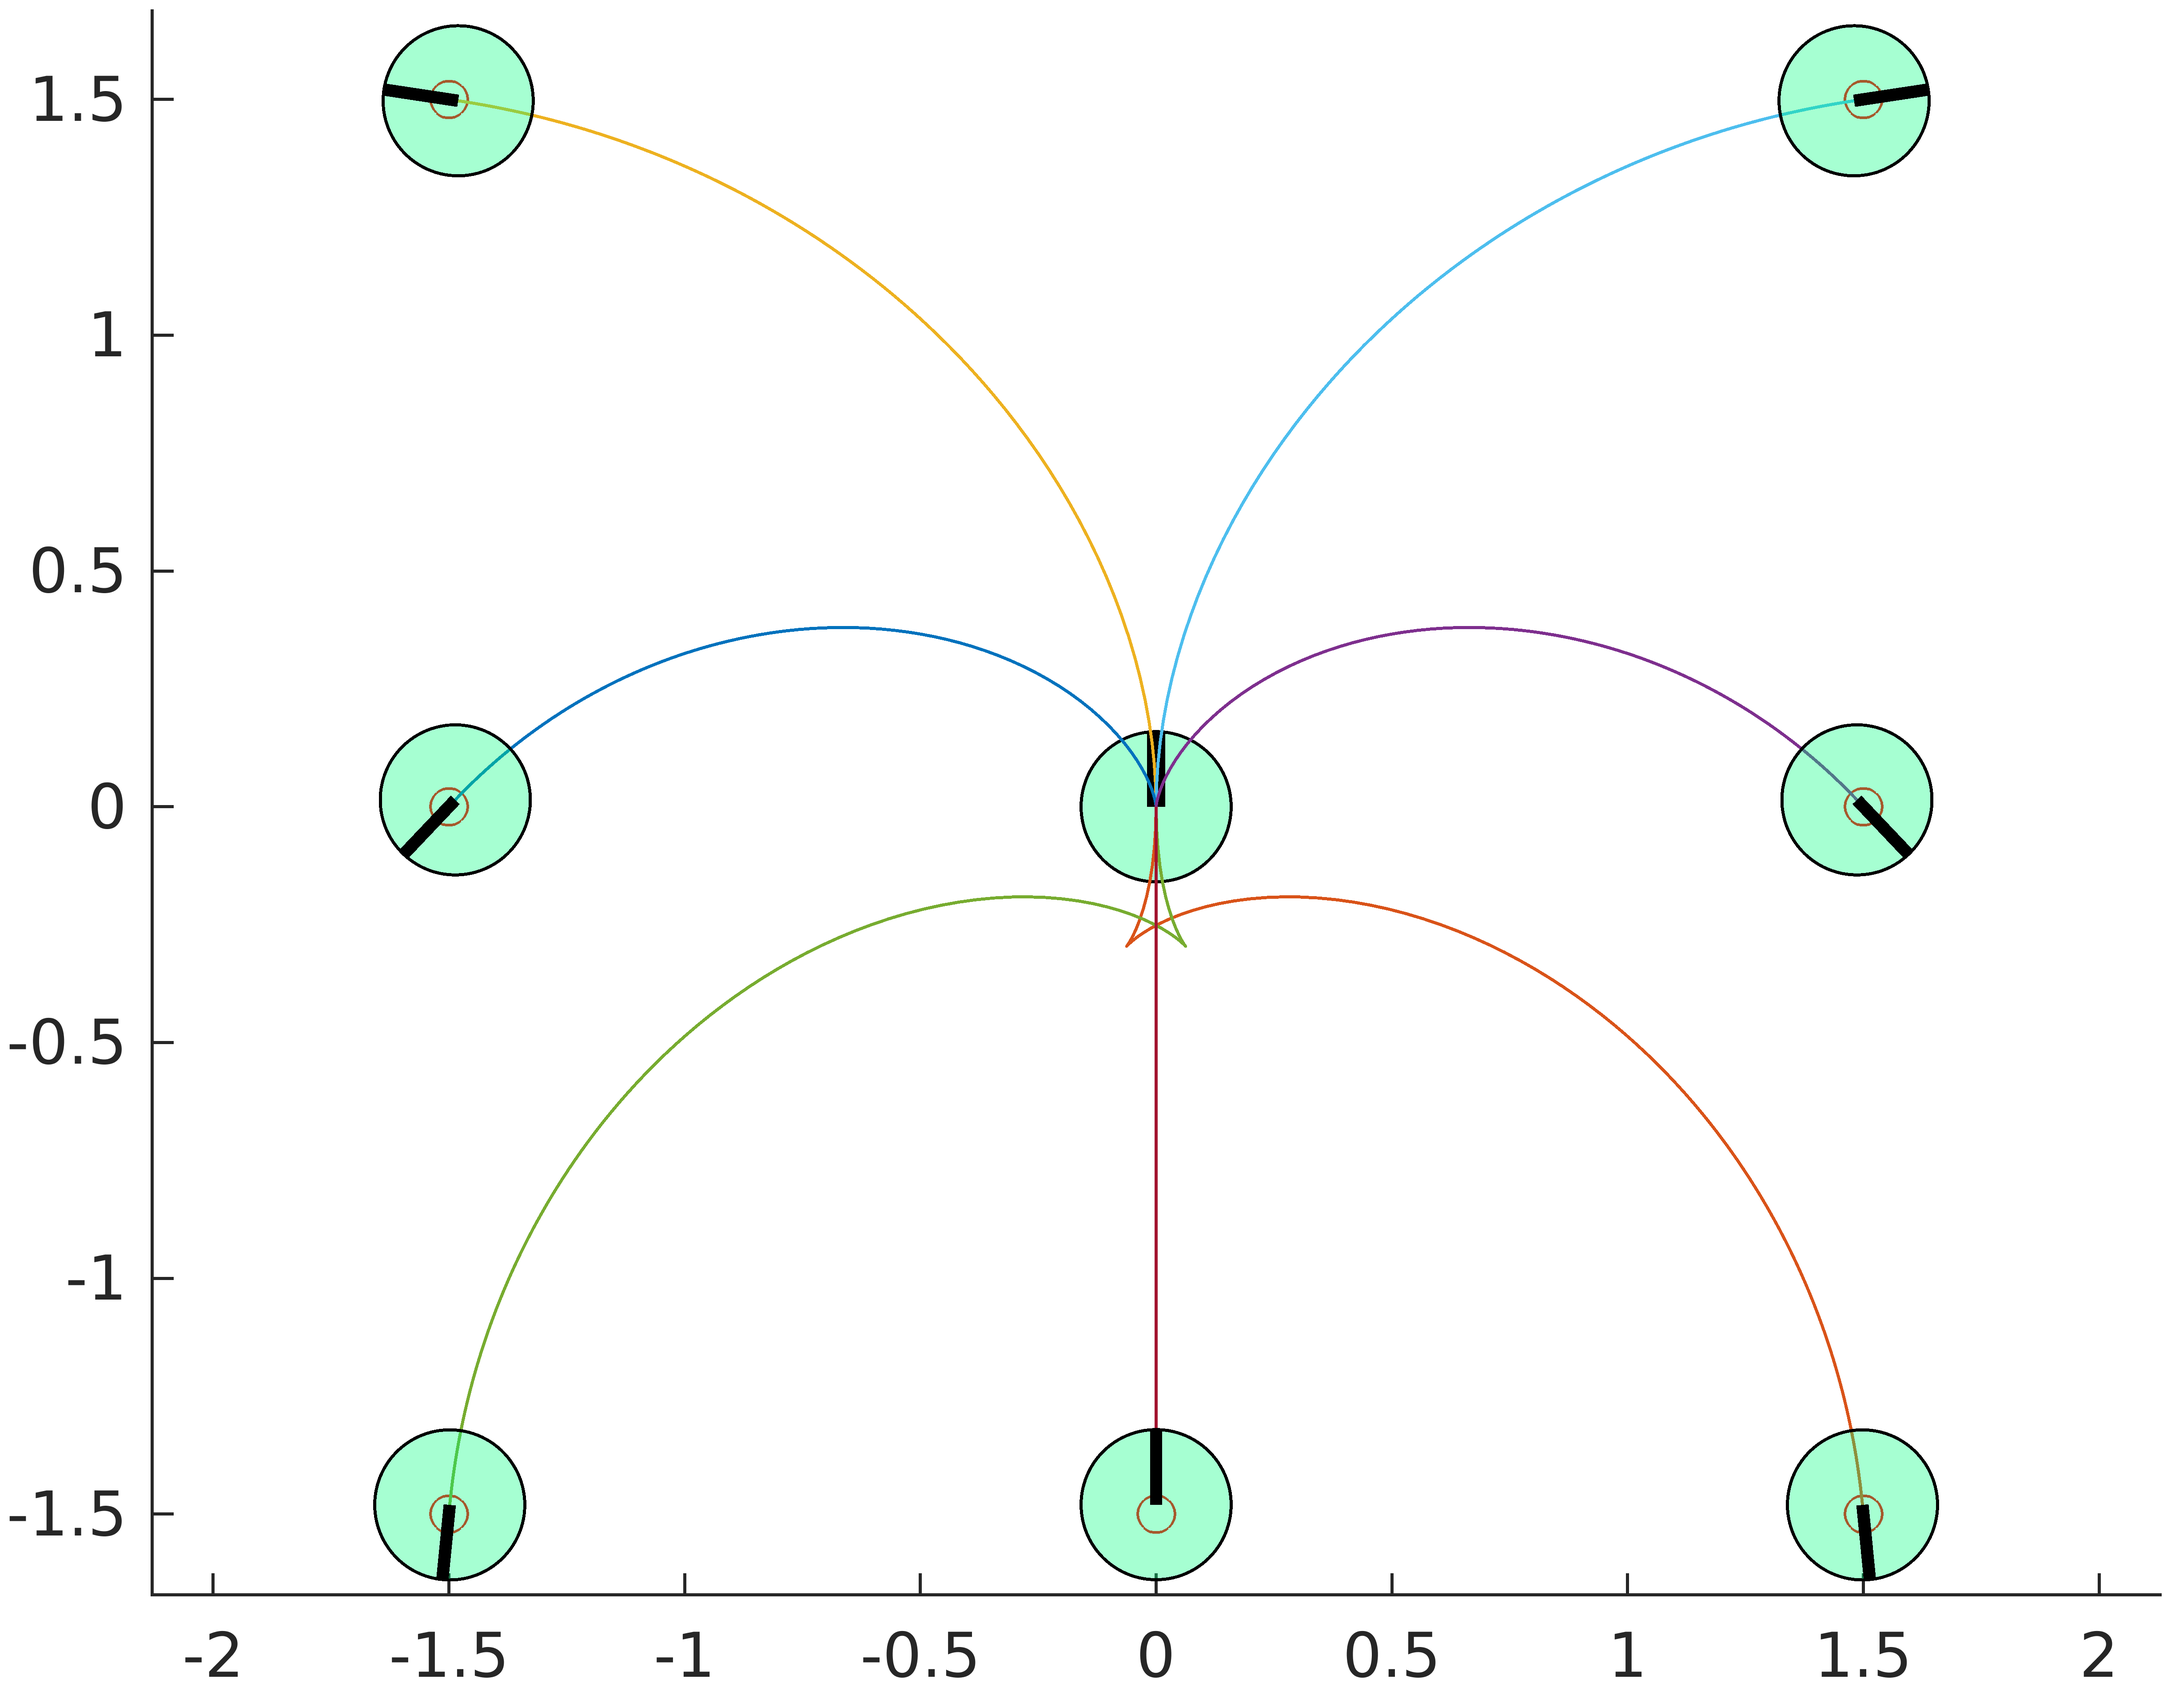
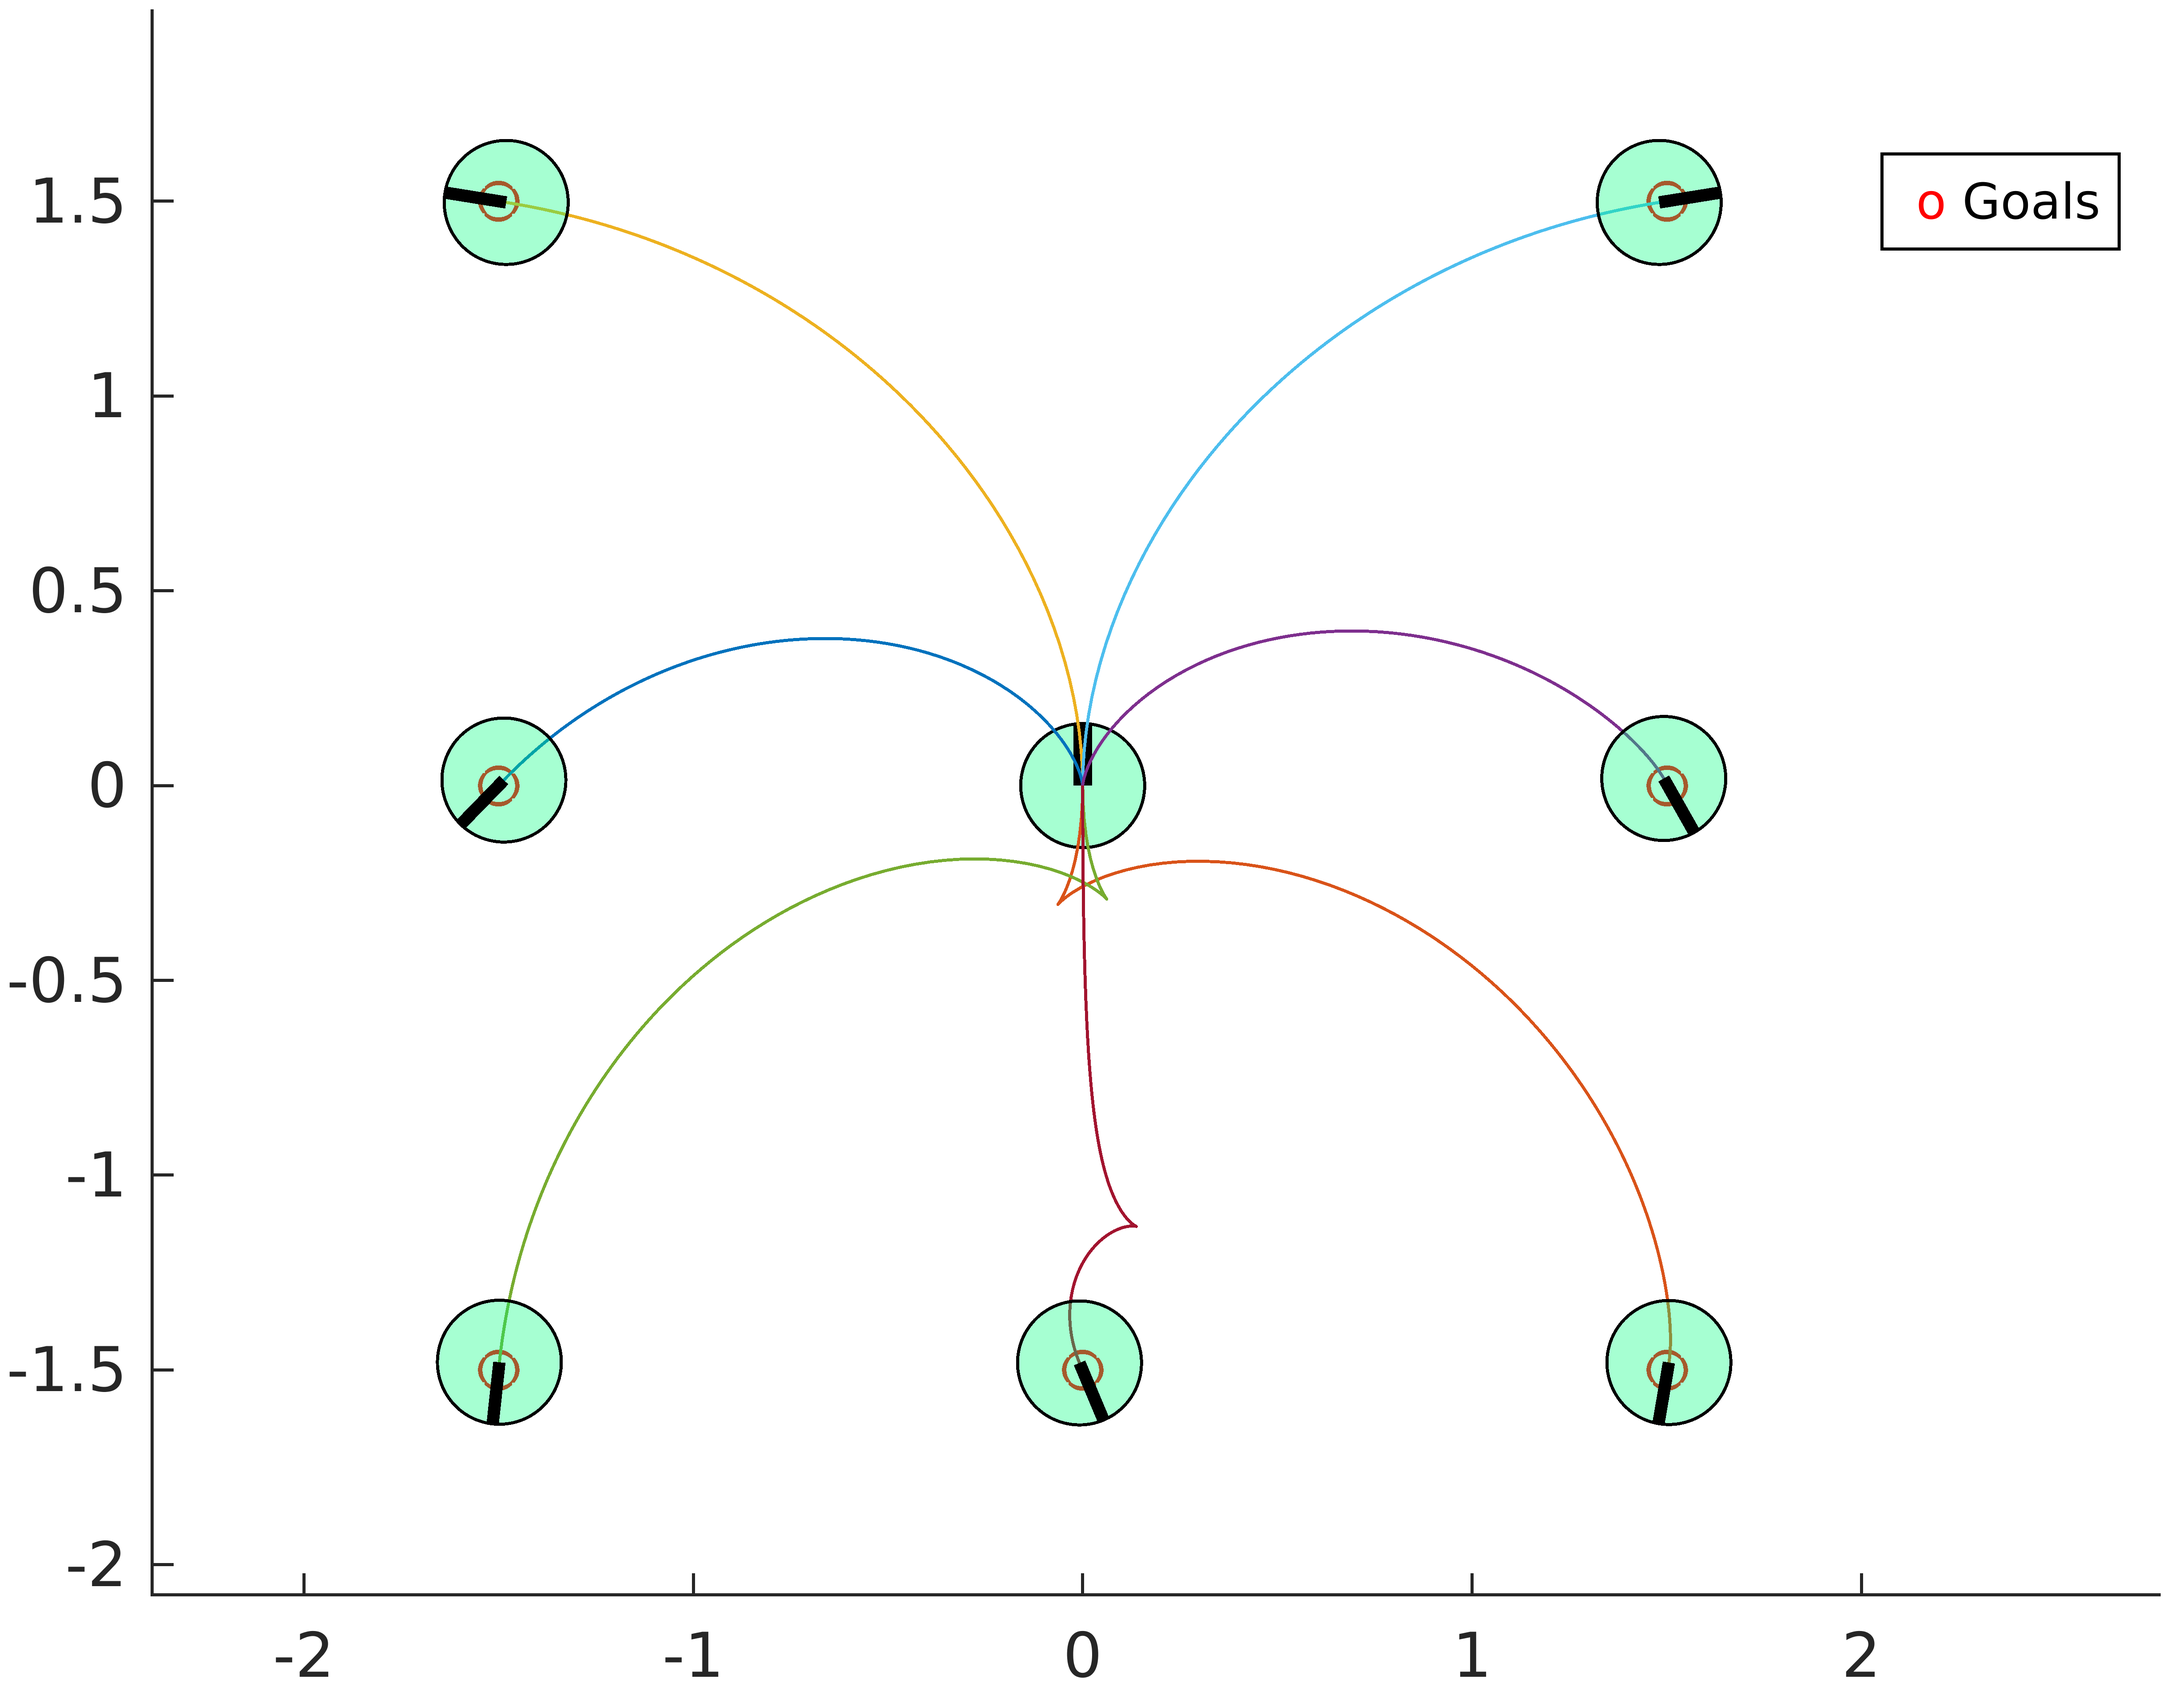
Aggiunto di nuovo k_l

diff --git a/DiffBot.m b/DiffBot.m
@@ -39,6 +39,7 @@ classdef DiffBot < handle
         ku
         Ppred
         kg
+        kl
         % k0
         % k1
         rendezvous_yes = false;
@@ -77,7 +78,7 @@ classdef DiffBot < handle
                     obj.pos(1:2) = (obj.sizes-2).*rand(2,1);
                 end
             end
-            [obj.kg,obj.kd,obj.ku] = gains_ddr{:};
+            [obj.kg,obj.kl,obj.kd,obj.ku] = gains_ddr{:};
             % [obj.kg,obj.kl,obj.kd,obj.ku,obj.k0,obj.k1] = gains_ddr{:};
             obj.pos_est = obj.pos ;
             obj.neighbours = [];
@@ -133,7 +134,7 @@ classdef DiffBot < handle
             e_k = norm(obj.cell_center - obj.pos_est(1:2));
             th_k = atan2(obj.cell_center(2)-obj.pos_est(2),obj.cell_center(1)-obj.pos_est(1));
             u = obj.kg.*cos(th_k - obj.pos_est(3)).*e_k;
-            w = 2.*obj.kg.*sin(th_k - obj.pos_est(3));
+            w = 2.*obj.kg.*sin(th_k - obj.pos_est(3)) + obj.kl .* ( th_k - obj.pos_est(3));
             % u= min(1.2,u);
             % w = min(pi,w);
 

diff --git a/main_config.m b/main_config.m
@@ -43,8 +43,9 @@ lidar_rad_std = 0.05;  % lidar radial noise std
 % Point dynamic gain
 kp = 8.0;               % proprotional control velocity gain
 
-% Differential Dynamic gain
+% Differential Dynamic gains
 kg = 3;
+kl = 0.05;
 % general gain
 kd = 1.3;              % dynamics set update mesh_map(Phi) gain
 ku = 0.25;              % visited set update mesh_map(Phi) gain
@@ -53,7 +54,7 @@ k1 = 0.0;              % dynamics of the cell radius gain (increase rate) 0.95
 
 gains = {kp,kd,ku,k0,k1};
 % gains_ddr = {kg,kl,kd,ku,k0,k1};
-gains_ddr = {kg,kd,ku};
+gains_ddr = {kg,kl,kd,ku};
 
 % centroid update frequency
 centroid_step = 1;      % every centroi_step, the centroid is updated 
